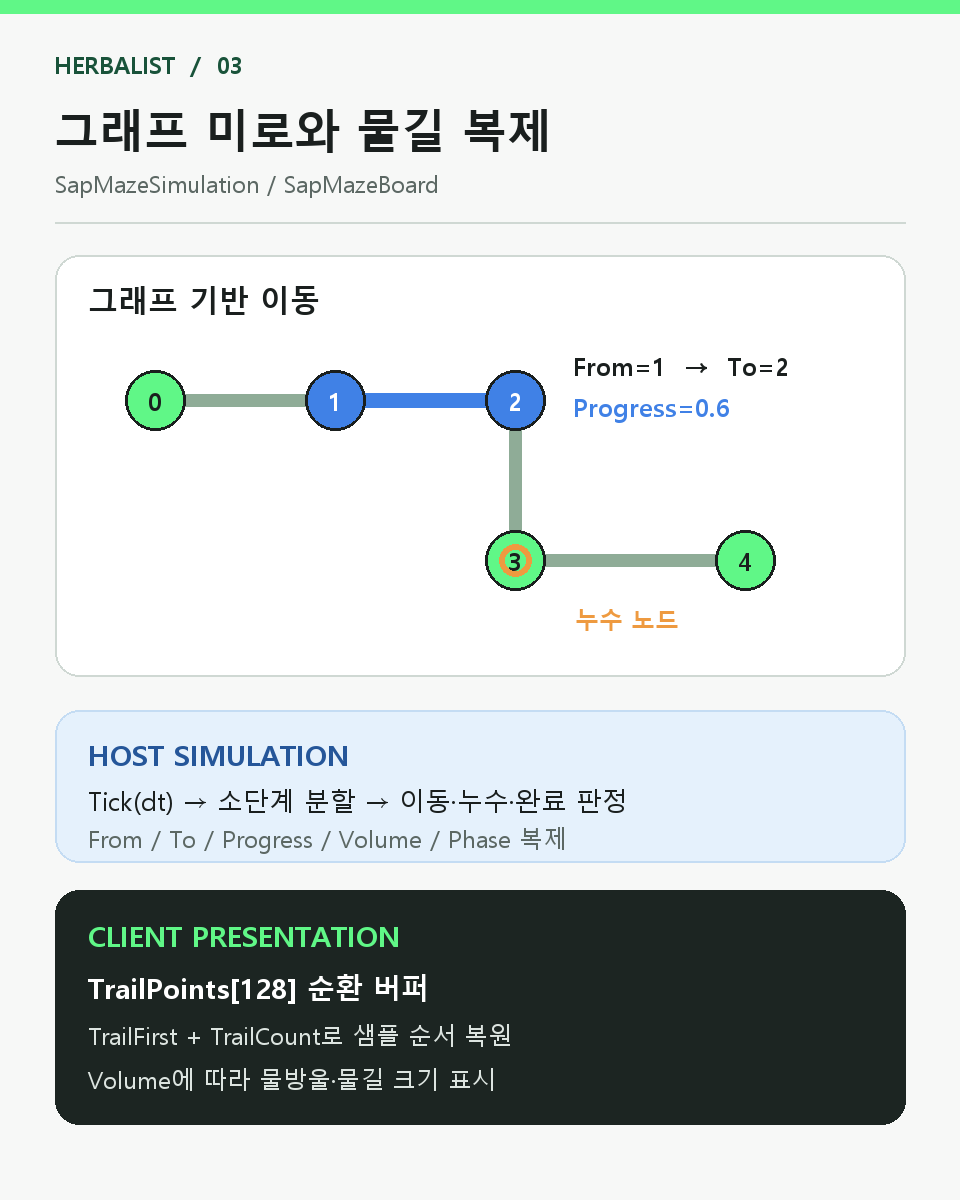
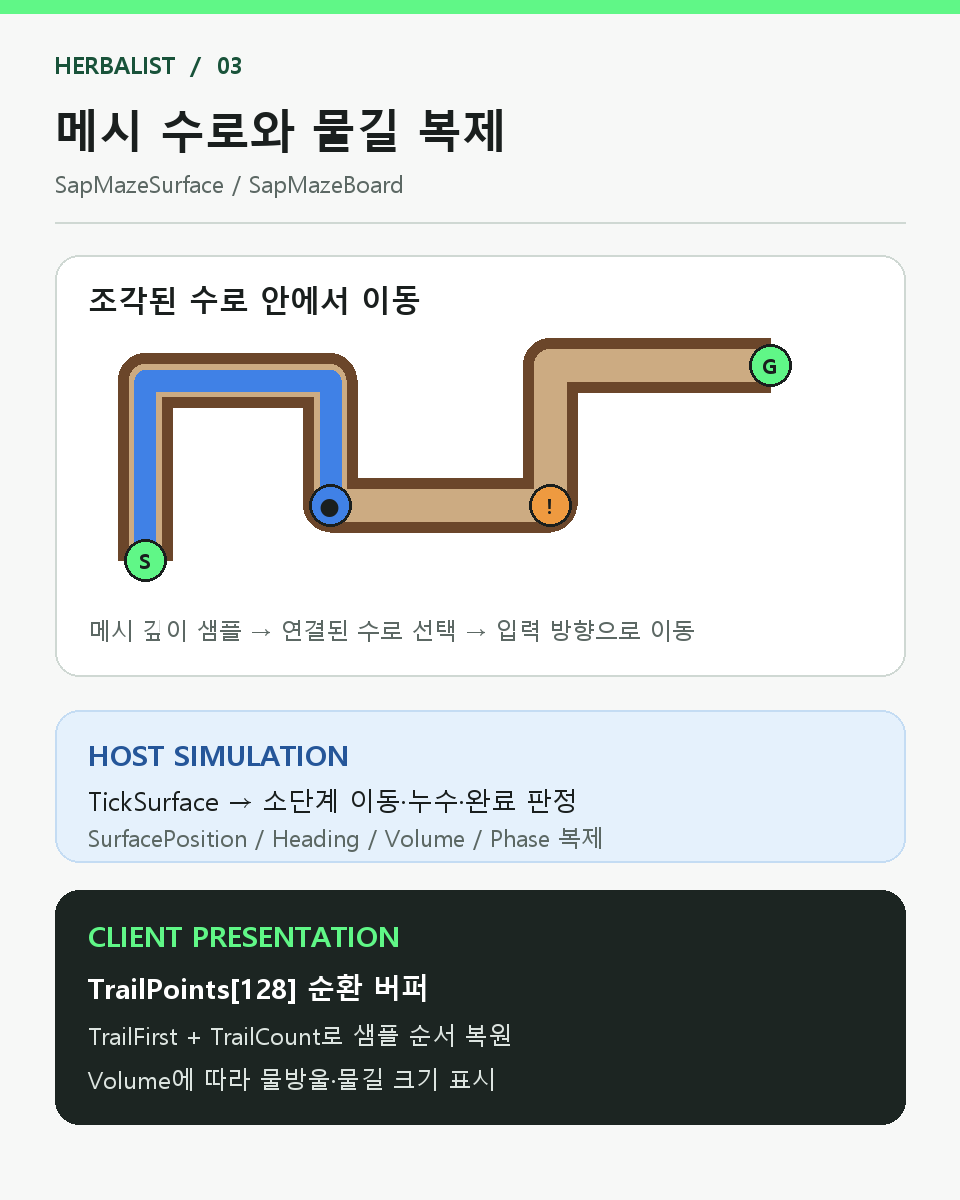
Recapture movement and maze portfolio gameplay

diff --git a/Portfolio/Herbalist/build_images.py b/Portfolio/Herbalist/build_images.py
@@ -129,25 +129,21 @@ def leaf():
 
 
 def maze():
-    im, d = base("그래프 미로와 물길 복제", "SapMazeSimulation / SapMazeBoard", "03")
+    im, d = base("메시 수로와 물길 복제", "SapMazeSurface / SapMazeBoard", "03")
     rounded(d, (55, 255, 905, 676))
-    txt(d, (88, 279), "그래프 기반 이동", 30, INK, True)
-    pts = [(155, 400), (335, 400), (515, 400), (515, 560), (745, 560)]
-    for i in range(len(pts) - 1):
-        d.line((pts[i], pts[i + 1]), fill=(143, 172, 151), width=13)
-    d.line((pts[1], pts[2]), fill=BLUE, width=15)
-    for i, p in enumerate(pts):
-        r = 30
-        d.ellipse((p[0] - r, p[1] - r, p[0] + r, p[1] + r), fill=BLUE if i in (1, 2) else GREEN, outline=INK, width=3)
-        txt(d, p, str(i), 25, "white" if i in (1, 2) else INK, True, "mm")
-    d.ellipse((499, 544, 531, 576), outline=ORANGE, width=6)
-    txt(d, (573, 348), "From=1  →  To=2", 25, INK, True)
-    txt(d, (573, 389), "Progress=0.6", 25, BLUE, True)
-    txt(d, (575, 602), "누수 노드", 24, ORANGE, True)
+    txt(d, (88, 279), "조각된 수로 안에서 이동", 30, INK, True)
+    route = [(145, 560), (145, 380), (330, 380), (330, 505), (550, 505), (550, 365), (770, 365)]
+    d.line(route, fill=(107, 70, 42), width=55, joint="curve")
+    d.line(route, fill=(204, 171, 130), width=33, joint="curve")
+    d.line(route[:4], fill=BLUE, width=22, joint="curve")
+    for p, label, color in [(route[0], "S", GREEN), (route[3], "●", BLUE), (route[4], "!", ORANGE), (route[-1], "G", GREEN)]:
+        d.ellipse((p[0]-21, p[1]-21, p[0]+21, p[1]+21), fill=color, outline=INK, width=3)
+        txt(d, p, label, 21, INK, True, "mm")
+    txt(d, (88, 614), "메시 깊이 샘플 → 연결된 수로 선택 → 입력 방향으로 이동", 23, MUTED)
     rounded(d, (55, 710, 905, 862), fill=(229, 241, 252), outline=(196, 220, 243))
     txt(d, (88, 735), "HOST SIMULATION", 28, (37, 86, 153), True)
-    txt(d, (88, 782), "Tick(dt) → 소단계 분할 → 이동·누수·완료 판정", 26, INK)
-    txt(d, (88, 821), "From / To / Progress / Volume / Phase 복제", 24, MUTED)
+    txt(d, (88, 782), "TickSurface → 소단계 이동·누수·완료 판정", 26, INK)
+    txt(d, (88, 821), "SurfacePosition / Heading / Volume / Phase 복제", 23, MUTED)
     rounded(d, (55, 890, 905, 1124), fill=(28, 37, 34), outline=(28, 37, 34))
     txt(d, (88, 916), "CLIENT PRESENTATION", 28, GREEN, True)
     txt(d, (88, 968), "TrailPoints[128] 순환 버퍼", 28, "white", True)

diff --git a/Portfolio/Herbalist/make_slide_pairs.py b/Portfolio/Herbalist/make_slide_pairs.py
@@ -62,8 +62,8 @@ if __name__ == "__main__":
     make(
         "10_movement_with_gameplay.png", "입력 예측과 재시뮬레이션",
         "02_client_prediction.png",
-        [(CAP / "stage1_two_players_raw.png", "Host / Client 2인 화면", "GAME CAPTURE")],
-        ["클라이언트의 로컬 입력을 먼저 시뮬레이션", "Host 상태를 받아 같은 Tick을 재시뮬레이션", "JumpSequence로 점프 입력 중복 소비 방지"],
+        [(OUT / "live/stage1_movement_20261019_tech_crop.png", "점프 중인 플레이어", "GAME CAPTURE")],
+        ["클라이언트의 로컬 입력을 먼저 시뮬레이션", "Host 상태로 같은 Tick을 재시뮬레이션", "화면은 오프라인 점프 Play 캡처"],
     )
     make(
         "11_leaf_with_gameplay.png", "나뭇잎 능력의 권한 분리",
@@ -74,7 +74,7 @@ if __name__ == "__main__":
     make(
         "12_maze_with_gameplay.png", "물 미로 시뮬레이션과 표현",
         "04_maze_simulation.png",
-        [(OUT / "live/stage2_maze_control_crop.png", "물 미로 조종 화면", "GAME CAPTURE")],
-        ["Host는 경로·누수·잔량 계산", "Client는 복제 상태로 물길을 그림", "실제 게임 화면은 Stage 2 프로토타입 캡처"],
+        [(OUT / "live/stage2_maze_20261019_tech_crop.png", "물길이 형성된 미로", "GAME CAPTURE")],
+        ["Host는 경로·누수·잔량 계산", "Client는 복제 상태로 물길을 그림", "새 모델링을 적용한 Stage 2 Play 캡처"],
     )
     print("Built three 1600×900 technical page visuals")

diff --git a/Portfolio/Herbalist/README.md b/Portfolio/Herbalist/README.md
@@ -1,6 +1,6 @@
 # HERBALIST 포트폴리오 이미지
 
-`images/live/`는 2026-10-17 Unity Editor의 **Play 모드 Game View**에서 직접 촬영한 원본이다. 캐릭터, UI, 미로, 숲은 게임이 렌더링한 화면이며 생성 이미지가 아니다.
+`images/live/`는 Unity Editor의 **Play 모드 Game View**에서 직접 촬영한 원본과 그 자르기본이다. 캐릭터, UI, 미로, 숲은 게임이 렌더링한 화면이며 생성 이미지가 아니다.
 
 | 파일 | 내용 |
 | --- | --- |
@@ -8,9 +8,13 @@
 | `images/live/stage1_leaf_unlocked_play.png` | Stage 1 로컬 분할 화면과 나뭇잎 슬롯 HUD. 능력 해금 테스트 화면이며 투척 장면은 아님 |
 | `images/live/stage2_maze_control_play.png` | Stage 2 수액 미로 조종 중 실제 플레이 화면. 오프라인 테스트 훅으로 능력을 해금하고 조종을 시작함 |
 | `images/live/stage2_maze_control_crop.png` | 위 Game View 캡처에서 미로 영역만 잘라낸 이미지 |
+| `images/live/stage1_movement_20261019_jump.png` | 2026-10-19 Stage 1 플레이어 점프 중 Game View 원본 |
+| `images/live/stage1_movement_20261019_tech_crop.png` | 위 점프 화면의 기술 페이지용 자르기본 |
+| `images/live/stage2_maze_20261019_trail.png` | 2026-10-19 새 모델링의 미로에서 수액 물길을 만든 Game View 원본 |
+| `images/live/stage2_maze_20261019_tech_crop.png` | 위 물길 화면의 기술 페이지용 자르기본 |
 | `images/00_overview_gameplay.png` | 위 Stage 1·2 원본 두 장을 자른 포트폴리오용 합성. 새 장면을 그리거나 생성하지 않음 |
 
-기술 페이지 `10`~`12`는 구조 도식과 게임 캡처를 배치한 이미지다. `10`·`11`의 실제 화면 부분은 `images/captures/`에 보관한 기존 캡처를, `12`는 이번에 촬영한 `images/live/`를 사용한다. 구조 도식 원본은 `02_client_prediction.png`~`05_stage_transition.png`이다. 씬 전환 페이지는 전환 전후의 새 플레이 캡처가 없어 합성하지 않았다.
+기술 페이지 `10`~`12`는 구조 도식과 게임 캡처를 배치한 이미지다. `10`과 `12`는 2026-10-19에 새로 촬영한 화면을, `11`은 `images/captures/`에 보관한 기존 캡처를 사용한다. `10`의 오프라인 점프 화면은 이동 동작을 보여주며 네트워크 예측·재시뮬레이션 자체의 증거로 사용하지 않는다. `12`의 도식은 현재 플레이 씬에서 사용하는 `SapMazeSurface` 메시 수로 이동에 맞췄다. 구조 도식 원본은 `02_client_prediction.png`~`05_stage_transition.png`이다. 씬 전환 페이지는 전환 전후의 새 플레이 캡처가 없어 합성하지 않았다.
 
 Stage 3는 **폭포**로 기획이 확정됐지만 현재 저장소에 플레이 가능한 폭포 씬이 없어 화면을 넣지 않았다. 개요에서 요청한 **두 캐릭터가 동시에 각자 능력을 사용하는 게임 장면**도 이번 오프라인 Play 캡처로는 확보하지 못했다. 해당 장면은 Host/Client 2인 세션에서 촬영해야 한다. 현재 개요 이미지는 Stage 1·2의 실제 화면만 보여준다.
 
